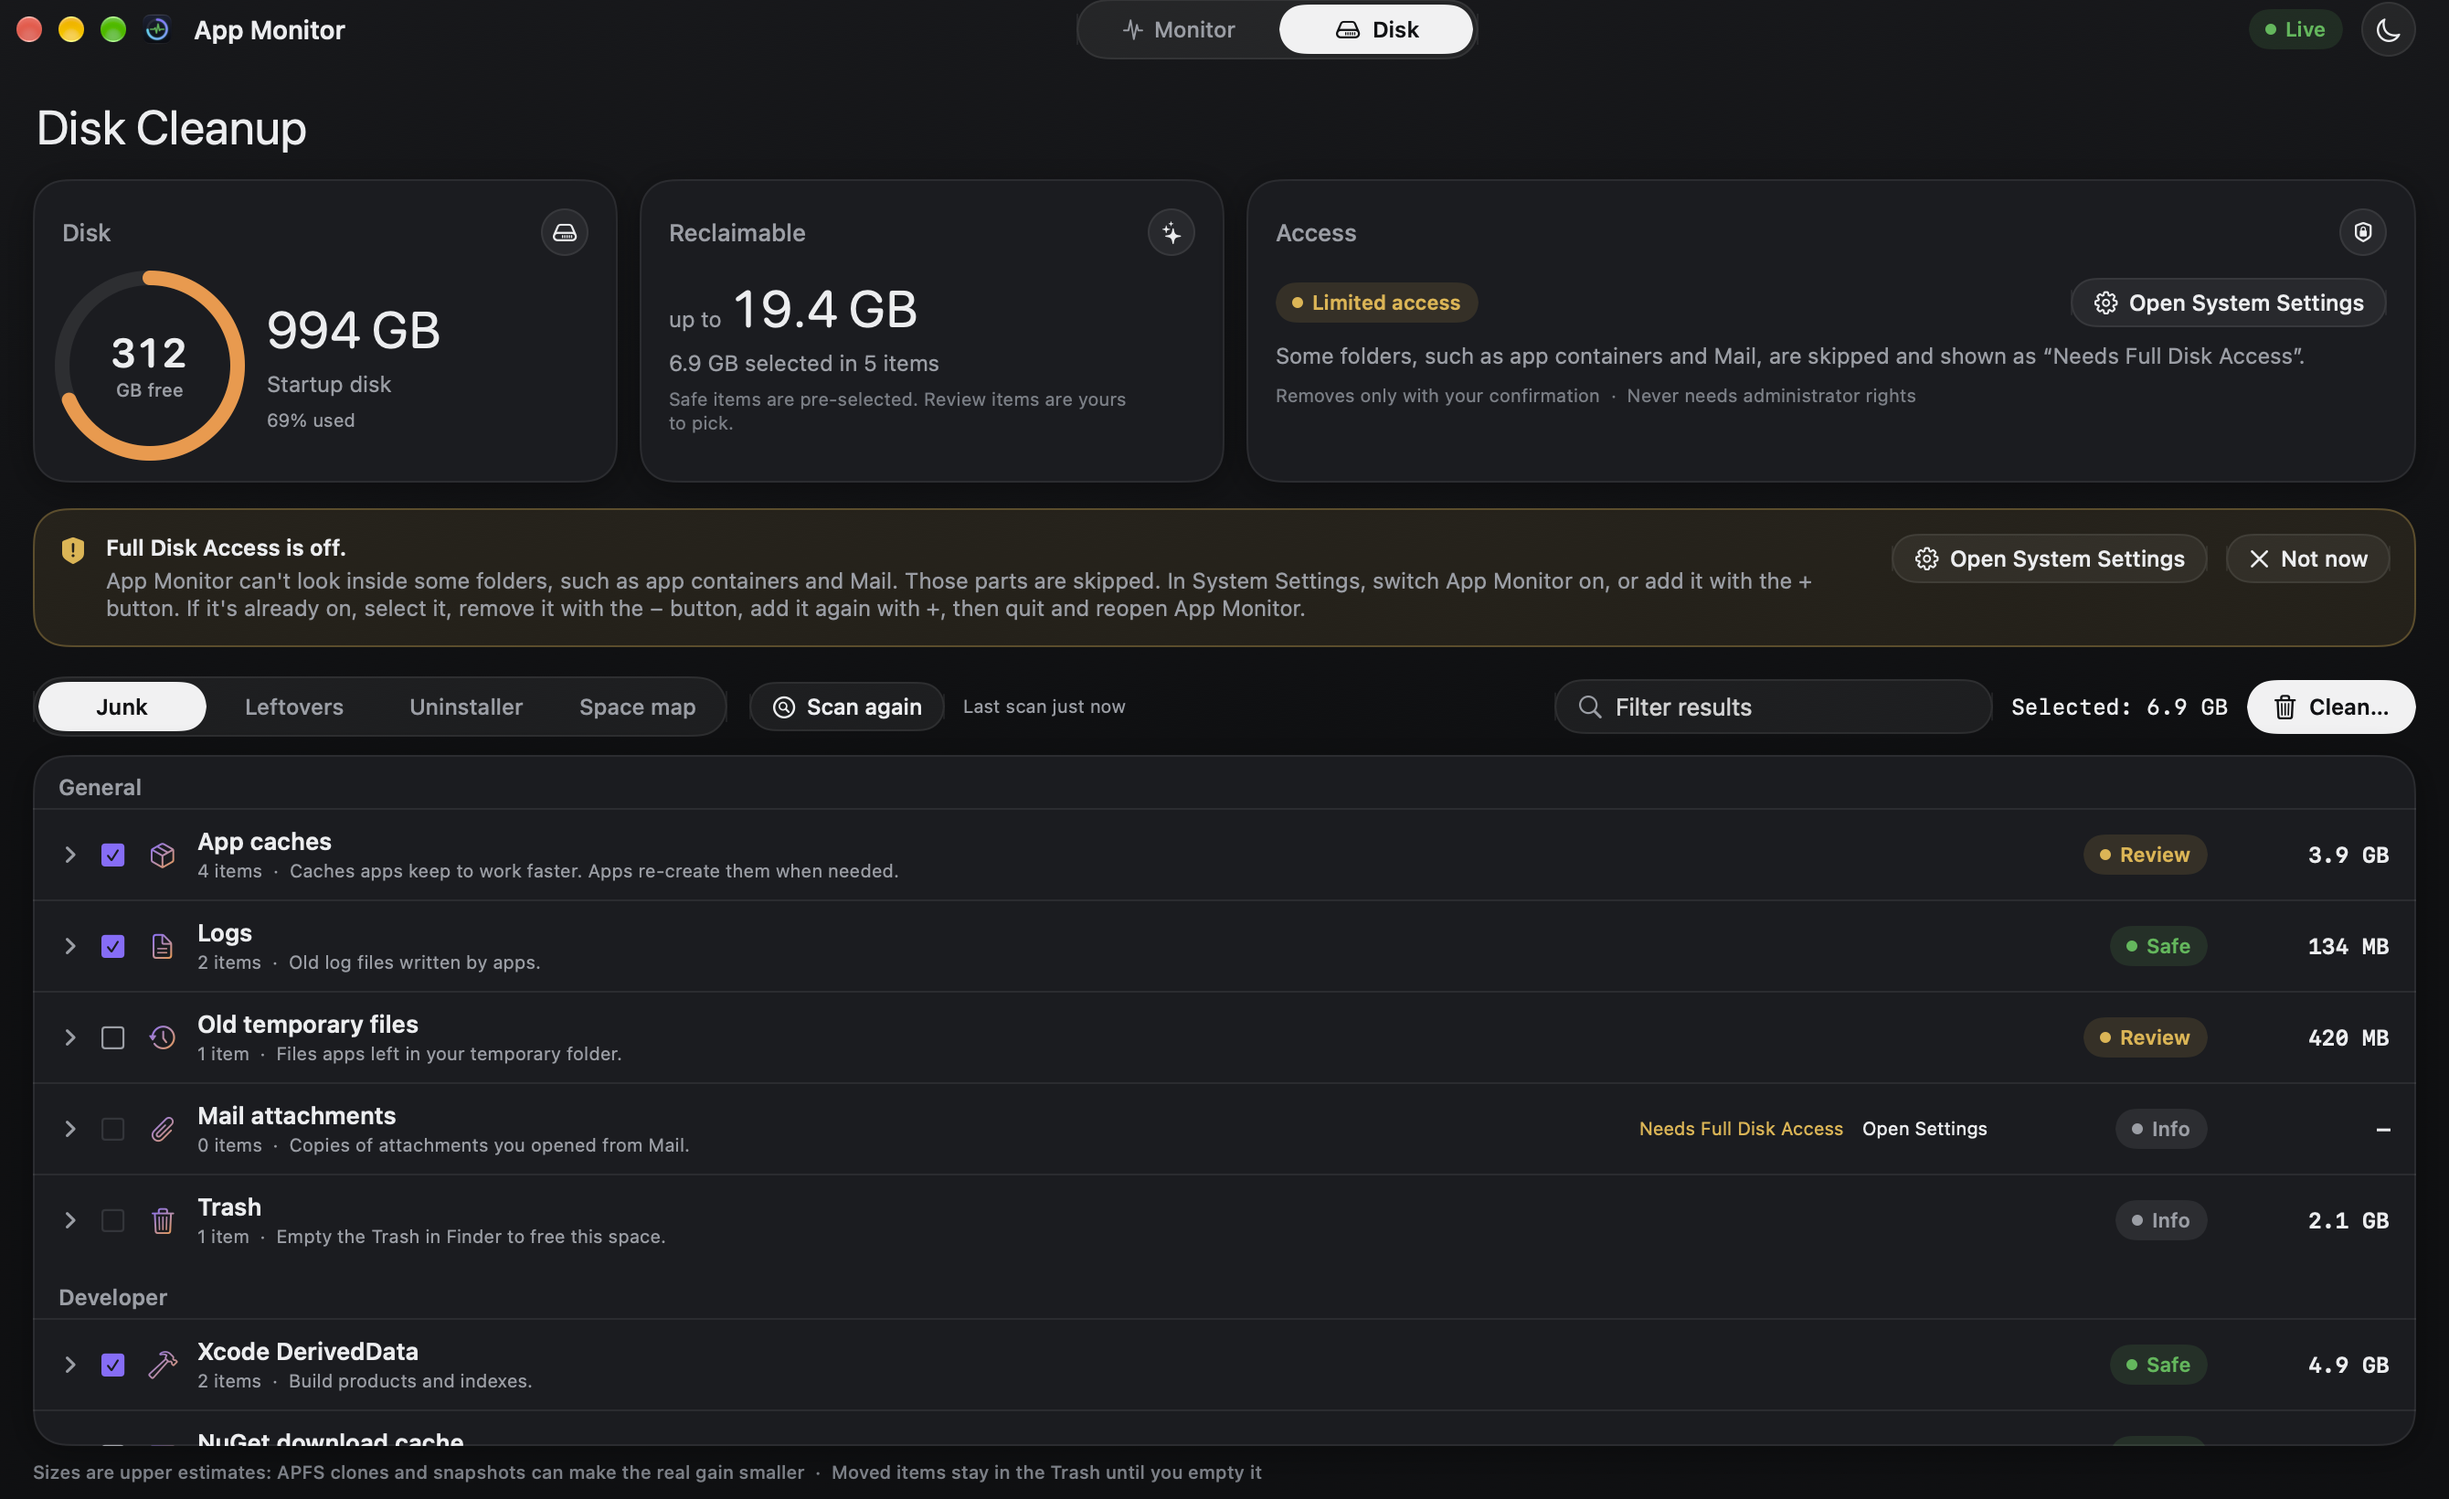
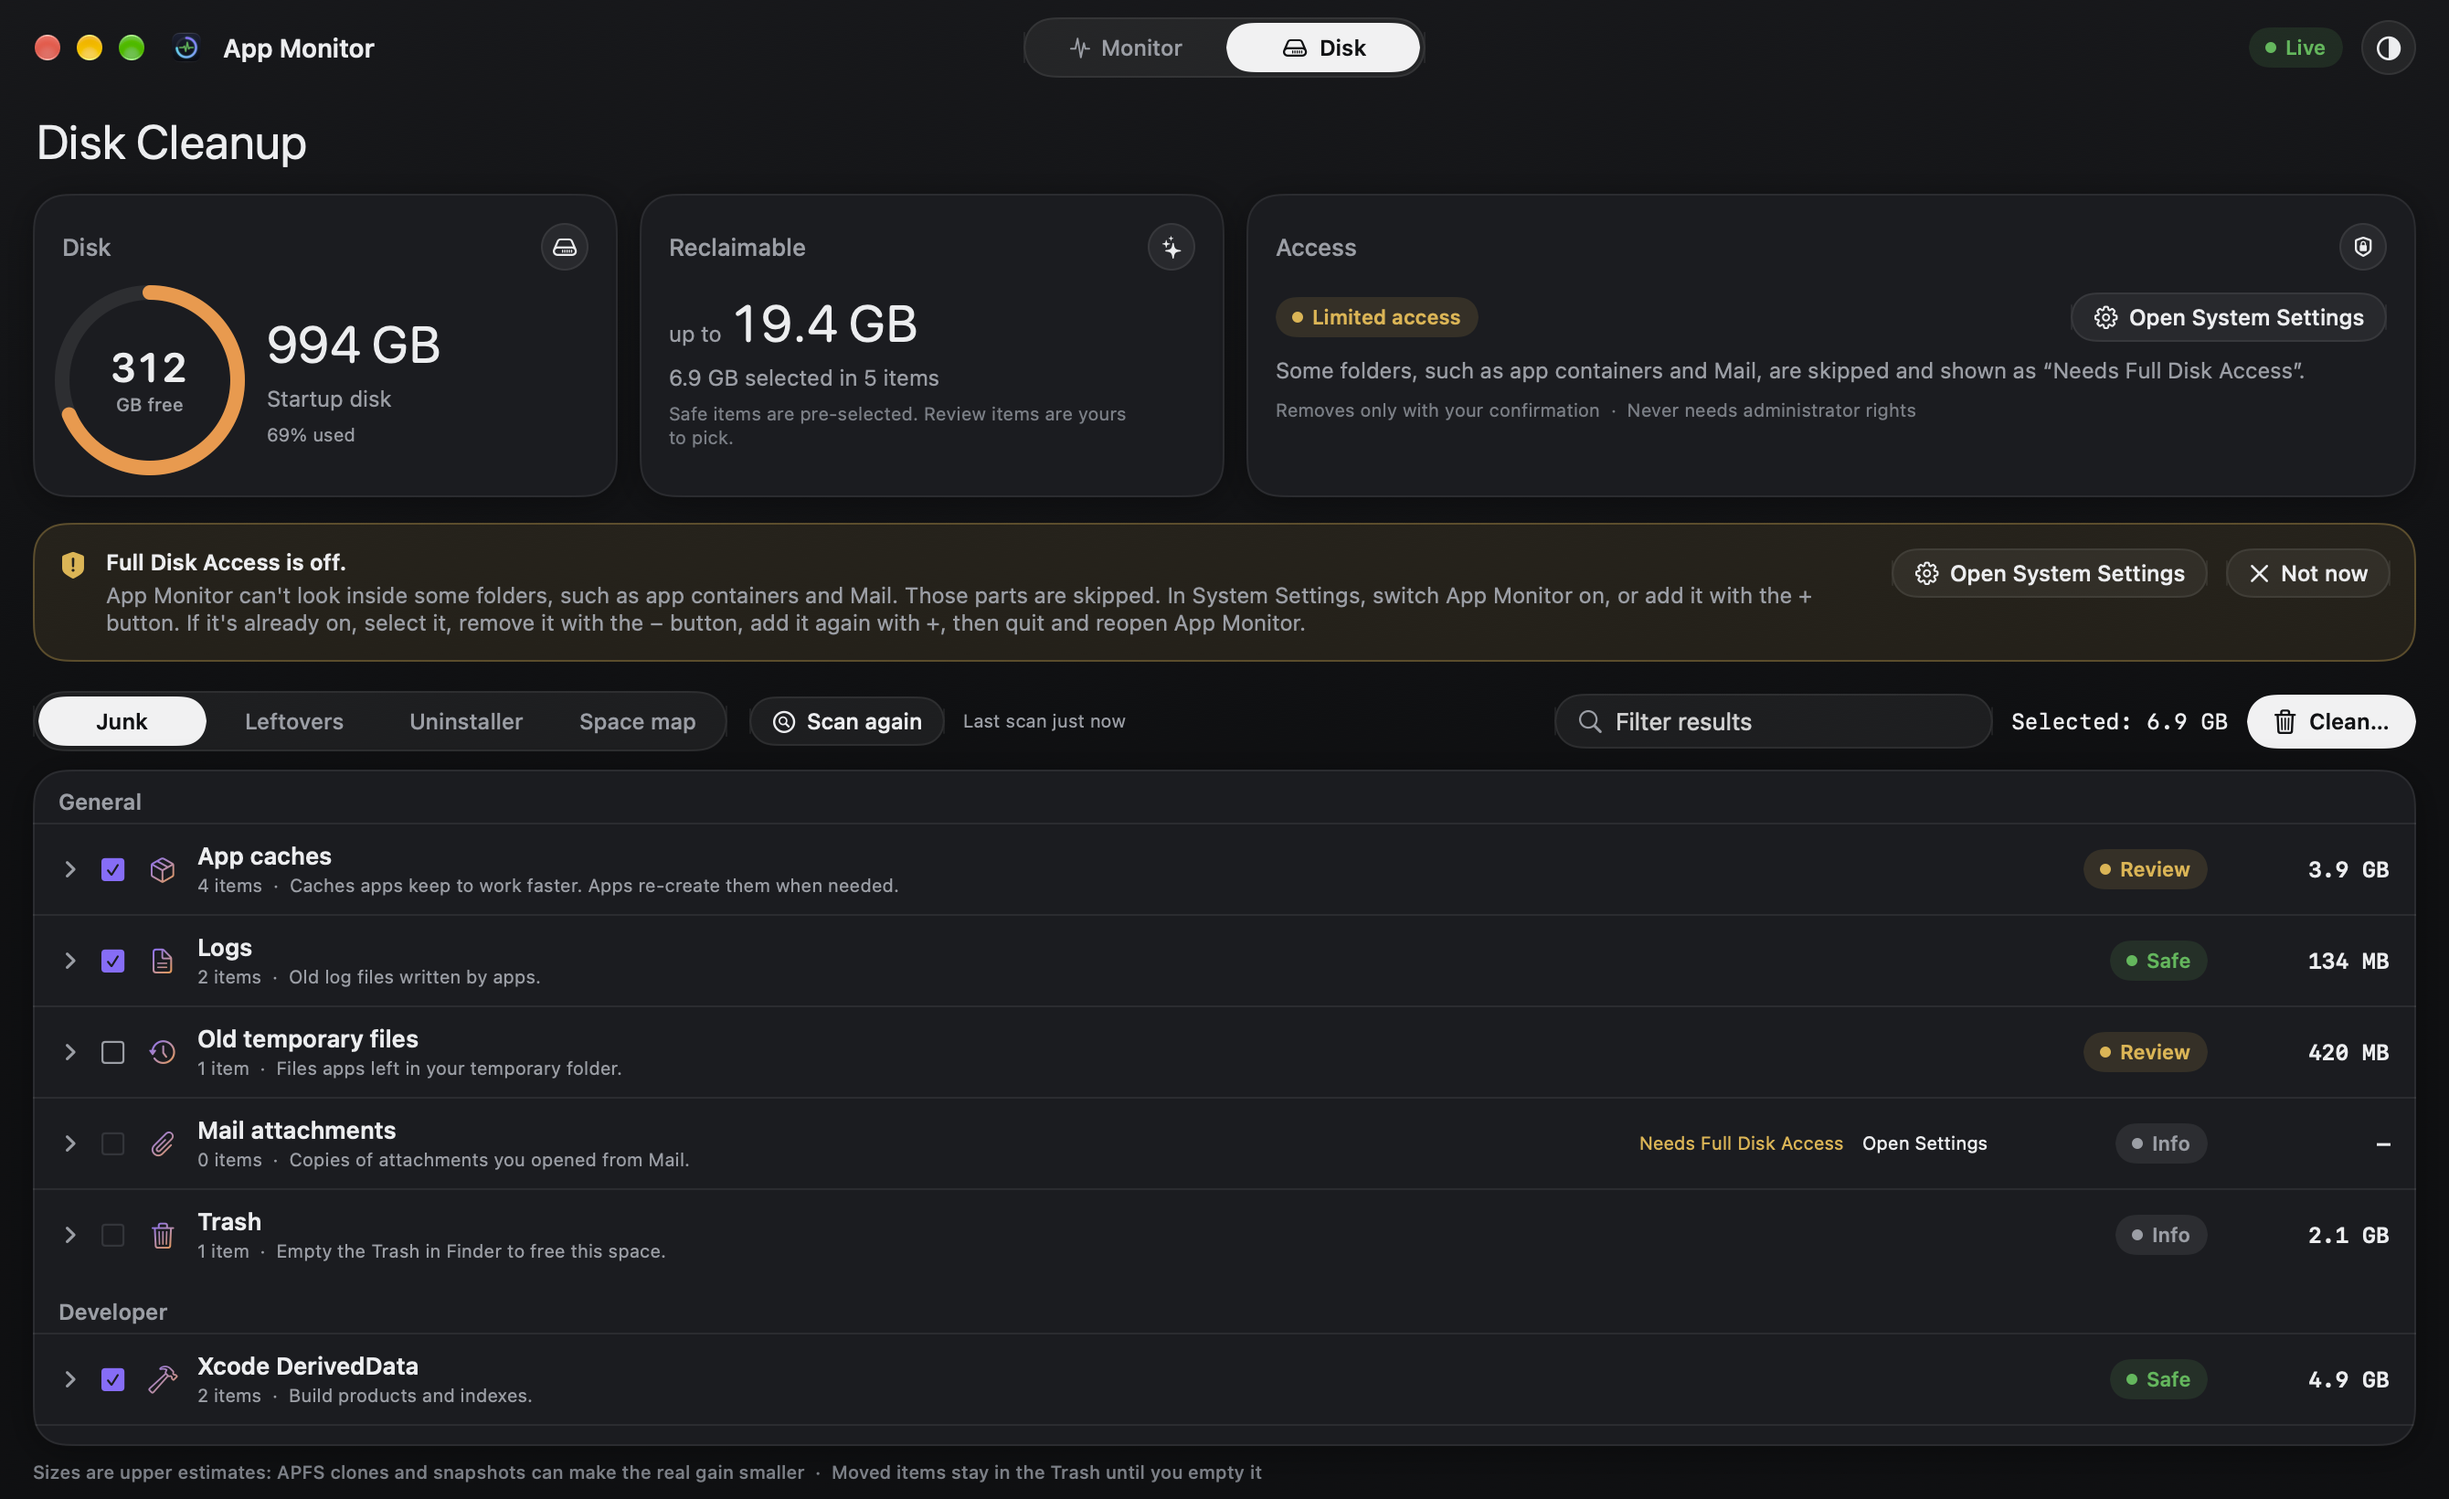
Taller title bar so the tab strip and buttons have room
An empty unified toolbar makes macOS draw a 52pt title bar and centre the
window buttons in it. The title row uses the same height, so the tab strip,
status chip and appearance button no longer touch the top edge. The tab strip
is now centred on the window.

diff --git a/AppMonitor/Views.swift b/AppMonitor/Views.swift
@@ -670,14 +670,36 @@ struct RootView: View {
                 Chip(text: s.paused ? "PAUSED" : "LIVE", color: s.paused ? Theme.yellow : Theme.green)
                 AppearanceButton()
             }
+            .padding(.leading, 92)   // sits right of the window buttons
+            .padding(.trailing, 18)
             PillPicker(title: "Tab", selection: $tab, items: Tab.allCases, icon: { $0.icon }) { $0.rawValue }
-                .frame(width: 220)
+                .frame(width: 220)   // centred on the window
         }
-        .padding(.leading, 76)   // sits right of the window buttons
-        .padding(.trailing, 18)
-        .frame(height: 32)
-        .padding(.bottom, 12)   // centre line (16pt down) matches the window buttons
+        .frame(height: TitleBarHeight.value)   // the window buttons are centred in this height (TallTitleBar)
+        .background(TallTitleBar())
     }
+}
+
+enum TitleBarHeight { static let value: CGFloat = 52 }
+
+/// Gives the window an empty unified toolbar, which makes macOS draw a 52pt title bar and centre the
+/// window buttons in it. The SwiftUI title row then has room above and below its taller controls.
+struct TallTitleBar: NSViewRepresentable {
+    final class Probe: NSView {
+        override func viewDidMoveToWindow() {
+            super.viewDidMoveToWindow()
+            guard let w = window, w.toolbar == nil else { return }
+            let bar = NSToolbar(identifier: "AppMonitorTitleBar")
+            bar.showsBaselineSeparator = false
+            w.toolbar = bar
+            w.toolbarStyle = .unified
+            w.titleVisibility = .hidden
+            w.titlebarAppearsTransparent = true
+            w.titlebarSeparatorStyle = .none
+        }
+    }
+    func makeNSView(context: Context) -> NSView { Probe() }
+    func updateNSView(_ nsView: NSView, context: Context) {}
 }
 
 // MARK: - App
